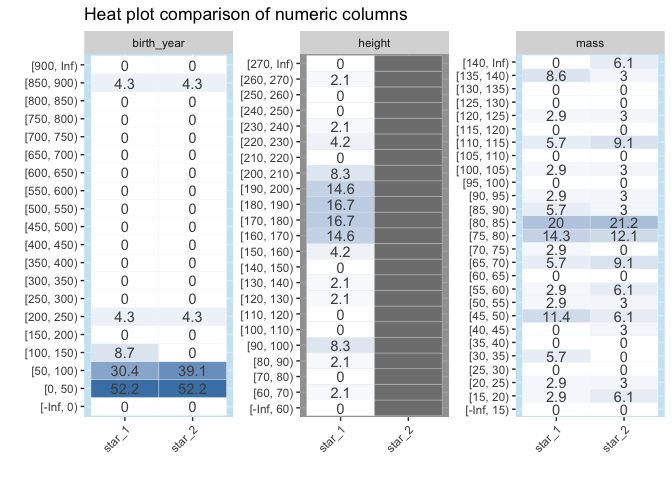
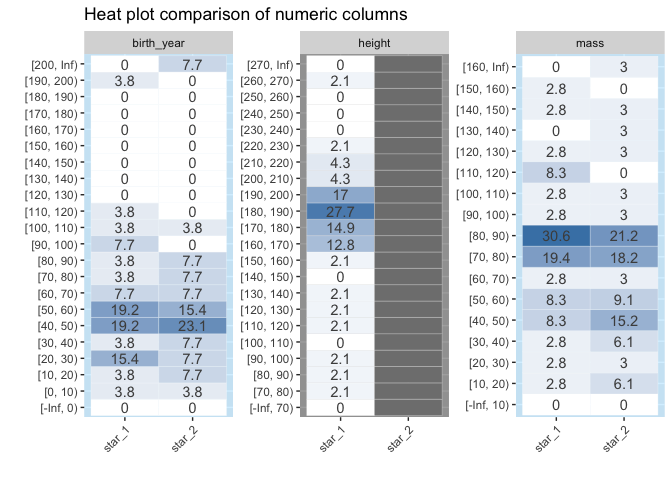
inspect_cat: high_cardinality argument to merge levels occurring with low frequency. Speeds up plotting in cases with near unique levels.

Changed region(s): [[0.0312, 0.0938, 0.6562, 0.875], [0.5625, 0.0938, 1.0, 0.875], [0.5625, 0.125, 0.6562, 0.2188]]

diff --git a/README.md b/README.md
@@ -6,7 +6,7 @@ Status](https://travis-ci.org/alastairrushworth/inspectdf.svg?branch=master)](ht
 [![codecov](https://codecov.io/gh/alastairrushworth/inspectdf/branch/master/graph/badge.svg)](https://codecov.io/gh/alastairrushworth/inspectdf)
 [![CRAN
 status](https://www.r-pkg.org/badges/version/inspectdf)](https://cran.r-project.org/package=inspectdf)
-<!-- [![](https://cranlogs.r-pkg.org/badges/inspectdf)](https://cran.r-project.org/package=inspectdf) -->
+[![](https://cranlogs.r-pkg.org/badges/inspectdf)](https://cran.r-project.org/package=inspectdf)
 
 ## Overview
 
@@ -160,21 +160,21 @@ inspect_mem(star_1, star_2, show_plot = TRUE)
 ![](man/figures/README-unnamed-chunk-9-1.png)<!-- -->
 
     ## # A tibble: 13 x 5
-    ##    col_name   size_1    size_2     pcnt_1 pcnt_2
-    ##    <chr>      <chr>     <chr>       <dbl>  <dbl>
-    ##  1 films      11.61 Kb  9.95 Kb    36.5    37.1 
-    ##  2 starships  4.03 Kb   3.98 Kb    12.7    14.8 
-    ##  3 name       3.52 Kb   <NA>       11.1    NA   
-    ##  4 vehicles   3.47 Kb   3.17 Kb    10.9    11.8 
-    ##  5 homeworld  2 Kb      2.41 Kb     6.29    8.99
-    ##  6 species    1.84 Kb   2.07 Kb     5.78    7.71
-    ##  7 skin_color 1.79 Kb   1.8 Kb      5.63    6.72
-    ##  8 eye_color  1.05 Kb   1016 bytes  3.29    3.69
-    ##  9 hair_color 792 bytes 1 Kb        2.43    3.72
-    ## 10 gender     616 bytes 616 bytes   1.89    2.24
-    ## 11 mass       448 bytes 448 bytes   1.38    1.63
-    ## 12 birth_year 448 bytes 448 bytes   1.38    1.63
-    ## 13 height     248 bytes <NA>        0.762  NA
+    ##    col_name   size_1    size_2    pcnt_1 pcnt_2
+    ##    <chr>      <chr>     <chr>      <dbl>  <dbl>
+    ##  1 films      10.61 Kb  11.58 Kb  33.8    41.1 
+    ##  2 starships  4.27 Kb   4.26 Kb   13.6    15.1 
+    ##  3 name       3.55 Kb   <NA>      11.3    NA   
+    ##  4 vehicles   3.47 Kb   3.32 Kb   11.0    11.8 
+    ##  5 homeworld  2.2 Kb    2.08 Kb    6.98    7.38
+    ##  6 skin_color 1.9 Kb    1.66 Kb    6.04    5.89
+    ##  7 species    1.84 Kb   1.72 Kb    5.84    6.11
+    ##  8 hair_color 960 bytes 968 bytes  2.98    3.36
+    ##  9 eye_color  960 bytes 1.05 Kb    2.98    3.72
+    ## 10 gender     616 bytes 680 bytes  1.91    2.36
+    ## 11 mass       448 bytes 448 bytes  1.39    1.55
+    ## 12 birth_year 448 bytes 448 bytes  1.39    1.55
+    ## 13 height     248 bytes <NA>       0.771  NA
 
 #### Missing values
 
@@ -193,7 +193,7 @@ inspect_na(starwars, show_plot = TRUE)
 
     ## # A tibble: 13 x 3
     ##    col_name     cnt  pcnt
-    ##    <chr>      <int> <dbl>
+    ##    <chr>      <dbl> <dbl>
     ##  1 birth_year    44 50.6 
     ##  2 mass          28 32.2 
     ##  3 homeworld     10 11.5 
@@ -225,14 +225,14 @@ inspect_na(star_1, star_2, show_plot = TRUE)
 
     ## # A tibble: 13 x 6
     ##    col_name   cnt_1 pcnt_1 cnt_2 pcnt_2 p_value
-    ##    <chr>      <int>  <dbl> <int>  <dbl>   <dbl>
-    ##  1 birth_year    27     54    27     54   1    
-    ##  2 mass          15     30    17     34   0.830
-    ##  3 homeworld      5     10     6     12   1.000
-    ##  4 hair_color     4      8     0      0   0.126
-    ##  5 gender         3      6     0      0   0.241
-    ##  6 species        3      6     3      6   1    
-    ##  7 height         2      4    NA     NA  NA    
+    ##    <chr>      <dbl>  <dbl> <dbl>  <dbl>   <dbl>
+    ##  1 birth_year    24     48    24     48   1    
+    ##  2 mass          14     28    17     34   0.665
+    ##  3 homeworld      5     10     5     10   1    
+    ##  4 height         3      6    NA     NA  NA    
+    ##  5 species        3      6     3      6   1    
+    ##  6 hair_color     2      4     3      6   1.000
+    ##  7 gender         2      4     2      4   1    
     ##  8 name           0      0    NA     NA  NA    
     ##  9 skin_color     0      0     0      0  NA    
     ## 10 eye_color      0      0     0      0  NA    
@@ -302,11 +302,11 @@ inspect_cor(star_1, star_2, show_plot = TRUE)
 ![](man/figures/README-unnamed-chunk-13-1.png)<!-- -->
 
     ## # A tibble: 3 x 5
-    ##   col_1      col_2  corr_1  corr_2 p_value
-    ##   <chr>      <chr>   <dbl>   <dbl>   <dbl>
-    ## 1 mass       height  0.779  NA      NA    
-    ## 2 birth_year height -0.491  NA      NA    
-    ## 3 birth_year mass   -0.381  -0.431   0.772
+    ##   col_1      col_2  corr_1 corr_2 p_value
+    ##   <chr>      <chr>   <dbl>  <dbl>   <dbl>
+    ## 1 mass       height  0.772 NA      NA    
+    ## 2 birth_year height  0.498 NA      NA    
+    ## 3 birth_year mass    0.237  0.476   0.180
 
 Notes:
 
@@ -340,12 +340,12 @@ inspect_imb(starwars, show_plot = TRUE)
     ## # A tibble: 7 x 4
     ##   col_name   value   pcnt   cnt
     ##   <chr>      <chr>  <dbl> <int>
-    ## 1 gender     male   71.3     19
-    ## 2 hair_color none   42.5      1
-    ## 3 species    Human  40.2      1
-    ## 4 eye_color  brown  24.1     10
-    ## 5 skin_color fair   19.5      2
-    ## 6 homeworld  Naboo  12.6      3
+    ## 1 gender     male   71.3     62
+    ## 2 hair_color none   42.5     37
+    ## 3 species    Human  40.2     35
+    ## 4 eye_color  brown  24.1     21
+    ## 5 skin_color fair   19.5     17
+    ## 6 homeworld  Naboo  12.6     11
     ## 7 name       Ackbar  1.15     1
 
 ##### `inspect_imb()` for two dataframes
@@ -362,15 +362,15 @@ inspect_imb(star_1, star_2, show_plot = TRUE)
 ![](man/figures/README-unnamed-chunk-15-1.png)<!-- -->
 
     ## # A tibble: 7 x 7
-    ##   col_name   value      pcnt_1 cnt_1 pcnt_2 cnt_2 p_value
-    ##   <chr>      <chr>       <dbl> <int>  <dbl> <int>   <dbl>
-    ## 1 gender     male           72    10     82     7   0.594
-    ## 2 hair_color none           44     6     50     1   0.117
-    ## 3 species    Human          40     1     32     1   1    
-    ## 4 eye_color  brown          26     7     NA    NA  NA    
-    ## 5 homeworld  Tatooine       18     3     NA    NA  NA    
-    ## 6 skin_color fair           16     1     20     1   1    
-    ## 7 name       Adi Gallia      2     1     NA    NA  NA
+    ##   col_name   value  pcnt_1 cnt_1 pcnt_2 cnt_2 p_value
+    ##   <chr>      <chr>   <dbl> <int>  <dbl> <int>   <dbl>
+    ## 1 gender     male       74    37     68    34   0.659
+    ## 2 hair_color none       38    19     38    19   1    
+    ## 3 species    Human      38    19     46    23   0.543
+    ## 4 eye_color  brown      26    13     30    15   0.824
+    ## 5 skin_color fair       18     9     22    11   0.803
+    ## 6 homeworld  Naboo      16     8     18     9   1.000
+    ## 7 name       Ackbar      2     1     NA    NA  NA
 
   - Smaller `p_value` indicates stronger evidence against the null
     hypothesis that the true frequency of the most common values is the
@@ -463,11 +463,11 @@ inspect_num(star_1, star_2, show_plot = TRUE)
 ![](man/figures/README-unnamed-chunk-18-1.png)<!-- -->
 
     ## # A tibble: 3 x 5
-    ##   col_name   hist_1            hist_2                jsd fisher_p
-    ##   <chr>      <list>            <list>              <dbl>    <dbl>
-    ## 1 birth_year <tibble [20 × 2]> <tibble [20 × 2]>  0.0474    0.354
-    ## 2 height     <tibble [23 × 2]> <NULL>            NA        NA    
-    ## 3 mass       <tibble [27 × 2]> <tibble [27 × 2]>  0.122     0.694
+    ##   col_name   hist_1            hist_2               jsd fisher_p
+    ##   <chr>      <list>            <list>             <dbl>    <dbl>
+    ## 1 birth_year <tibble [22 × 2]> <tibble [22 × 2]>  0.146    0.265
+    ## 2 height     <tibble [22 × 2]> <NULL>            NA       NA    
+    ## 3 mass       <tibble [17 × 2]> <tibble [17 × 2]>  0.109    0.571
 
 #### Categorical levels
 
@@ -496,13 +496,13 @@ inspect_cat(starwars, show_plot = T)
     ## # A tibble: 7 x 5
     ##   col_name     cnt common common_pcnt levels           
     ##   <chr>      <int> <chr>        <dbl> <list>           
-    ## 1 eye_color     15 brown        24.1  <tibble [15 × 2]>
-    ## 2 gender         5 male         71.3  <tibble [5 × 2]> 
-    ## 3 hair_color    13 none         42.5  <tibble [13 × 2]>
-    ## 4 homeworld     49 Naboo        12.6  <tibble [49 × 2]>
-    ## 5 name          87 Ackbar        1.15 <tibble [87 × 2]>
-    ## 6 skin_color    31 fair         19.5  <tibble [31 × 2]>
-    ## 7 species       38 Human        40.2  <tibble [38 × 2]>
+    ## 1 eye_color     15 brown        24.1  <tibble [15 × 3]>
+    ## 2 gender         5 male         71.3  <tibble [5 × 3]> 
+    ## 3 hair_color    13 none         42.5  <tibble [13 × 3]>
+    ## 4 homeworld     49 Naboo        12.6  <tibble [49 × 3]>
+    ## 5 name          87 Ackbar        1.15 <tibble [87 × 3]>
+    ## 6 skin_color    31 fair         19.5  <tibble [31 × 3]>
+    ## 7 species       38 Human        40.2  <tibble [38 × 3]>
 
 For example, the levels for the `hair_color` column are
 
@@ -510,22 +510,22 @@ For example, the levels for the `hair_color` column are
 inspect_cat(starwars)$levels$hair_color
 ```
 
-    ## # A tibble: 13 x 2
-    ##    value           prop
-    ##    <chr>          <dbl>
-    ##  1 none          0.425 
-    ##  2 brown         0.207 
-    ##  3 black         0.149 
-    ##  4 <NA>          0.0575
-    ##  5 white         0.0460
-    ##  6 blond         0.0345
-    ##  7 auburn        0.0115
-    ##  8 auburn, grey  0.0115
-    ##  9 auburn, white 0.0115
-    ## 10 blonde        0.0115
-    ## 11 brown, grey   0.0115
-    ## 12 grey          0.0115
-    ## 13 unknown       0.0115
+    ## # A tibble: 13 x 3
+    ##    value           prop   cnt
+    ##    <chr>          <dbl> <int>
+    ##  1 none          0.425     37
+    ##  2 brown         0.207     18
+    ##  3 black         0.149     13
+    ##  4 <NA>          0.0575     5
+    ##  5 white         0.0460     4
+    ##  6 blond         0.0345     3
+    ##  7 auburn        0.0115     1
+    ##  8 auburn, grey  0.0115     1
+    ##  9 auburn, white 0.0115     1
+    ## 10 blonde        0.0115     1
+    ## 11 brown, grey   0.0115     1
+    ## 12 grey          0.0115     1
+    ## 13 unknown       0.0115     1
 
 Note that by default, if `NA` values are present, they are counted as a
 distinct categorical level.
@@ -547,13 +547,13 @@ inspect_cat(star_1, star_2, show_plot = TRUE)
     ## # A tibble: 7 x 5
     ##   col_name       jsd fisher_p lvls_1            lvls_2           
     ##   <chr>        <dbl>    <dbl> <list>            <list>           
-    ## 1 eye_color   0.0817    0.785 <tibble [11 × 2]> <tibble [10 × 2]>
-    ## 2 gender      0.0386    0.276 <tibble [4 × 2]>  <tibble [3 × 2]> 
-    ## 3 hair_color  0.0951    0.418 <tibble [7 × 2]>  <tibble [10 × 2]>
-    ## 4 homeworld   0.282     0.998 <tibble [28 × 2]> <tibble [35 × 2]>
-    ## 5 name       NA        NA     <tibble [50 × 2]> <NULL>           
-    ## 6 skin_color  0.176     0.996 <tibble [23 × 2]> <tibble [23 × 2]>
-    ## 7 species     0.161     1     <tibble [25 × 2]> <tibble [29 × 2]>
+    ## 1 eye_color   0.0551    0.971 <tibble [9 × 3]>  <tibble [11 × 3]>
+    ## 2 gender      0.0122    0.927 <tibble [4 × 3]>  <tibble [5 × 3]> 
+    ## 3 hair_color  0.0475    0.989 <tibble [10 × 3]> <tibble [10 × 3]>
+    ## 4 homeworld   0.241     1     <tibble [31 × 3]> <tibble [29 × 3]>
+    ## 5 name       NA        NA     <tibble [50 × 3]> <NULL>           
+    ## 6 skin_color  0.122     0.999 <tibble [25 × 3]> <tibble [21 × 3]>
+    ## 7 species     0.168     1     <tibble [25 × 3]> <tibble [23 × 3]>
 
 When `show_plot = TRUE`, a barplot is returned comparing distributions
 of levels in pairs of columns shared by the two dataframes.
